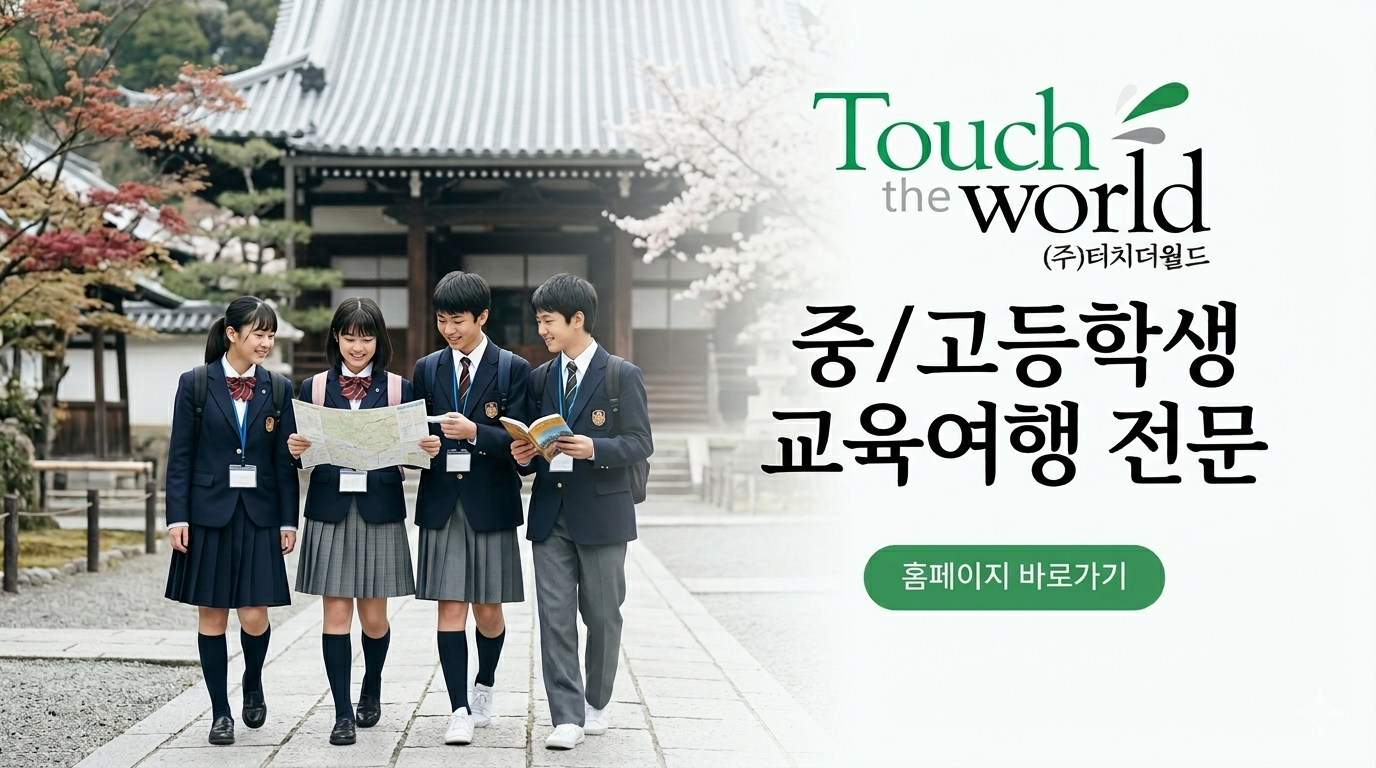
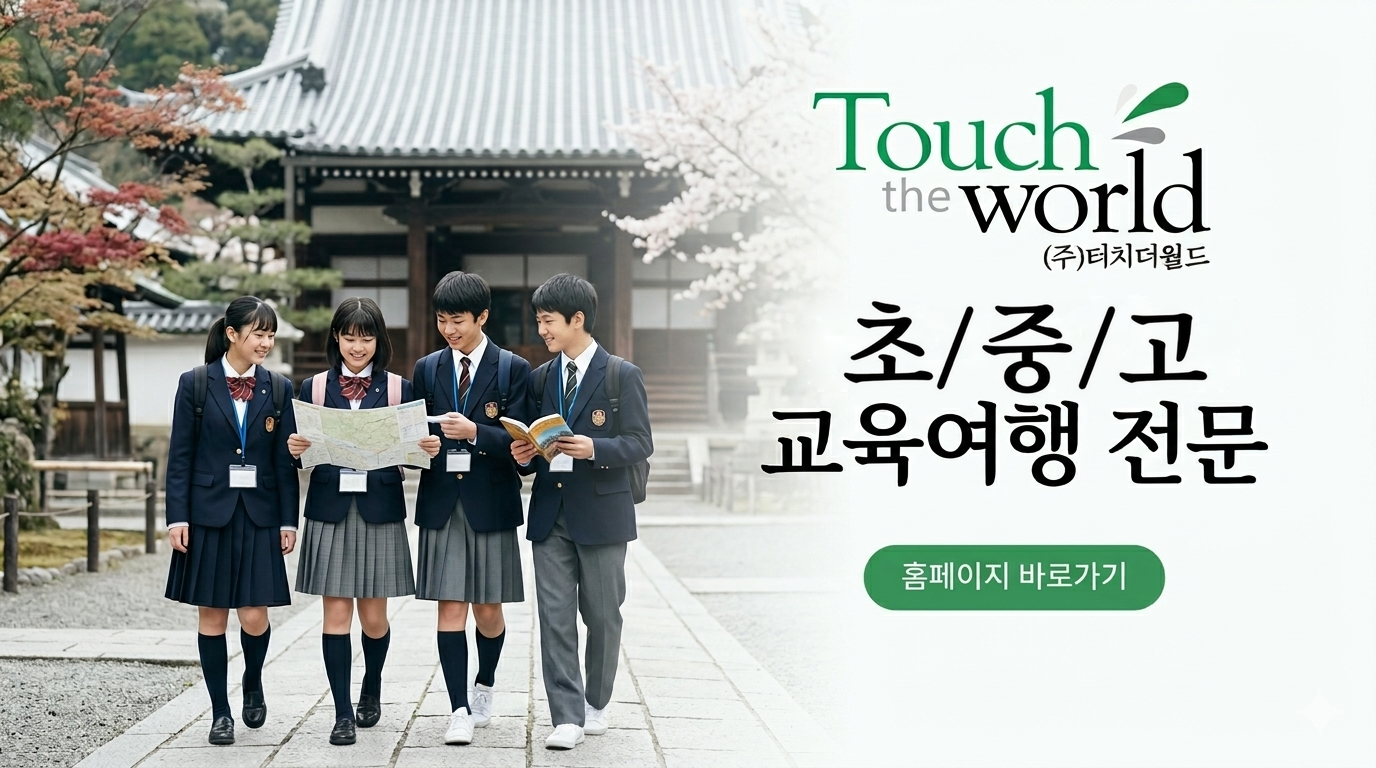
Content: 미리보기(og) 이미지 문구를 "중/고등학생"에서 "초/중/고 교육여행 전문"으로 — 새 파일명 og_image3로 공유 캐시 갱신

Changed region(s): [[0.5625, 0.375, 0.9062, 0.5312]]

diff --git a/app/layout.tsx b/app/layout.tsx
@@ -75,7 +75,7 @@ export const metadata: Metadata = {
     locale: "ko_KR",
     type: "website",
     images: [
-      { url: "/images/og_image2.png", width: 1376, height: 768, alt: "터치더월드 | 교육여행 전문" },
+      { url: "/images/og_image3.png", width: 1376, height: 768, alt: "터치더월드 | 교육여행 전문" },
       { url: "/images/og_image_1x1.png", width: 1024, height: 1024, alt: "터치더월드 | 교육여행 전문" },
     ],
   },
@@ -83,7 +83,7 @@ export const metadata: Metadata = {
     card: "summary_large_image",
     title: SEO_TITLE,
     description: SEO_DESCRIPTION,
-    images: ["/images/og_image2.png"],
+    images: ["/images/og_image3.png"],
   },
 };
 

diff --git a/app/guides/field-trip/page.tsx b/app/guides/field-trip/page.tsx
@@ -37,7 +37,7 @@ export const metadata: Metadata = {
     siteName: "터치더월드",
     locale: "ko_KR",
     type: "article",
-    images: [{ url: "/images/og_image2.png", width: 1376, height: 768, alt: "터치더월드 | 교육여행 전문" }],
+    images: [{ url: "/images/og_image3.png", width: 1376, height: 768, alt: "터치더월드 | 교육여행 전문" }],
   },
 };
 

diff --git a/app/page.tsx b/app/page.tsx
@@ -39,7 +39,7 @@ export const metadata: Metadata = {
     siteName: "터치더월드",
     locale: "ko_KR",
     type: "website",
-    images: [{ url: "/images/og_image2.png", width: 1376, height: 768, alt: "터치더월드 | 교육여행 전문" }],
+    images: [{ url: "/images/og_image3.png", width: 1376, height: 768, alt: "터치더월드 | 교육여행 전문" }],
   },
 };
 
